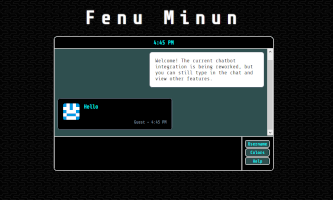
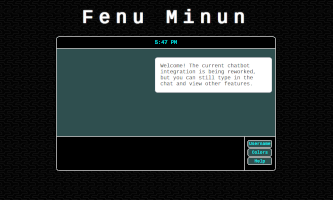
removing borders

Changed region(s): [[0.1502, 0.18, 0.8408, 0.87], [0.4805, 0.03, 0.7508, 0.12], [0.2402, 0.03, 0.4505, 0.12]]

diff --git a/CSS/song_finder.css b/CSS/song_finder.css
@@ -15,13 +15,13 @@ input[name="search"] {
 	color: cyan;
 	font-size: 1.5rem;
 	background-color: darkslategray;
-	border: .08rem solid #fff;
+	border: none;
 	border-radius: .32rem;
 	margin: 0;
-	padding: 0.125rem 0.5rem 0.375rem 0.5rem;
+	padding: 0.375rem 0.5rem;
 	line-height: 1.5rem;
 	vertical-align: top;
-	font-family: 'Share Tech Mono', 'Century Gothic', monospace;
+	font-family: 'Cousine', 'Century Gothic', monospace;
 }
 
 input[name="search"]:hover {
@@ -35,13 +35,14 @@ textarea[name='song search'], textarea[name='artist search'] {
 	margin: 0;
 	margin-right: 2rem;
 	font-size: 2rem;
-	line-height: 2rem;
+	line-height: 2.5rem;
 	padding: 0rem 1rem;
 	resize: none;
 	overflow: hidden;
 	border-radius: 0.5rem;
+	border: none;
 	color: slategray;
-	font-family: 'Share Tech Mono', 'Century Gothic', monospace;
+	font-family: 'Cousine', 'Century Gothic', monospace;
 }
 
 textarea[name='song search'] {
@@ -55,13 +56,12 @@ textarea[name='artist search'] {
 /* Display */
 
 #SONG_FINDER {
-	border-top: 0.08rem solid #fff;
 	padding-top: 1rem;
 	position: fixed;
 	width: 100%;
 	top: 7rem;
-	background-color: #222;
-	box-shadow: 0 1rem 1rem 1rem #000;
+	background-color: #000;
+	box-shadow: 0 2rem 1rem 1rem #222;
 }
 
 #SONG_RESULT, #LYRICS_RESULT {
@@ -69,15 +69,14 @@ textarea[name='artist search'] {
 }
 
 #SONG_RESULT {
-	background-color: #000;
-	border-top: 0.08rem solid #fff;
-	padding-top: 1rem;
+	background-color: #222;
+	padding-top: 1.5rem;
 	height: 2rem;
 }
 
 #LYRICS {
 	position: absolute;
-	top: 16rem;
+	top: 17rem;
 	width: 100%;
 	z-index: -1;
 }

diff --git a/main.css b/main.css
@@ -1,14 +1,14 @@
-@import url('https://fonts.googleapis.com/css?family=Share+Tech+Mono&display=swap');
+@import url('https://fonts.googleapis.com/css?family=Cousine&display=swap');
 
 html {
 	font-size: 16px;
 }
 
 body {
-	background-color: #000;
+	background-color: #222;
 	text-align: center;
 	color: #fff;
-	font-family: 'Share Tech Mono', 'Century Gothic',  monospace;
+	font-family: 'Cousine', 'Century Gothic',  monospace;
 	margin: 0rem;
 	overflow-y: scroll;
 }
@@ -56,9 +56,8 @@ h3 {
 }
 
 nav {
-	background-color: #222;
-	border-top: 0.08rem solid #fff;
-	border-bottom: 0.08rem solid #fff;
+	background-color: #000;
+	padding: 0.08rem;
 }
 
 
@@ -128,23 +127,19 @@ footer {
 	bottom: 0;
 	right: 0;
 	font-size: 0.75rem;
-	background-color: #111;
+	background-color: #000;
 	color: #fff;
 	padding: 0.25rem 1rem;
 	text-align: right;
-	border-top: 0.08rem solid #fff;
-	border-top: 0.08rem solid #fff;
-	border-left: 0.08rem solid #fff;
 	border-top-left-radius: 1rem;
 }
 
 /* Buttons */
 article h3 {
 	padding: 0rem;
-	margin: 6rem auto;
-	background-color: #222;
+	margin: 5.5rem auto;
+	background-color: #000;
 	border-radius: 0.5rem;
-	border: .08rem solid #fff;
 	width: 21rem;
 	transition-duration: 0.5s;
 }

diff --git a/CSS/chat_mock_up.css b/CSS/chat_mock_up.css
@@ -10,7 +10,7 @@ h1, h1 a {
 }
 
 input {
-	font-family: 'Share Tech Mono', 'Century Gothic', monospace;
+	font-family: 'Cousine', 'Century Gothic', monospace;
 }
 
 /* Text Boxes */
@@ -22,7 +22,7 @@ textarea[name="bot input"] {
 	border-bottom-left-radius: 0.5rem;
 	background-color: #000;
 	color: aqua;
-	font-family: 'Share Tech Mono', 'Century Gothic', monospace;
+	font-family: 'Cousine', 'Century Gothic', monospace;
 	padding: .64rem;
 	border: 0.08rem solid #fff;
 	margin: 0;
@@ -39,7 +39,7 @@ textarea[name="bot input"]:focus {
 	height: 18rem;
 	width: 41.12rem;
 	color: aqua;
-	font-family: 'Share Tech Mono', 'Century Gothic', monospace;
+	font-family: 'Cousine', 'Century Gothic', monospace;
 	padding: 0rem 0rem .64rem 0rem;
 	border: 0.08rem solid #fff;
 	border-bottom: none;

diff --git a/index.html b/index.html
@@ -19,7 +19,8 @@
 		</nav>
 		<div id="ABOUT" class='main'>
 			<article>
-				<p>Femu Minun is a project run and managed by one dev. The focus is to create content for, but not limited to the web.</p>
+				<p>Femu Minun is a project run and managed by one dev.</p>
+				<p>The focus is to create content for, but not limited to the web with as little bloat as possible.</p>
 				<p>View the projects section for some examples.</p>
 			</article>
 		</div>
